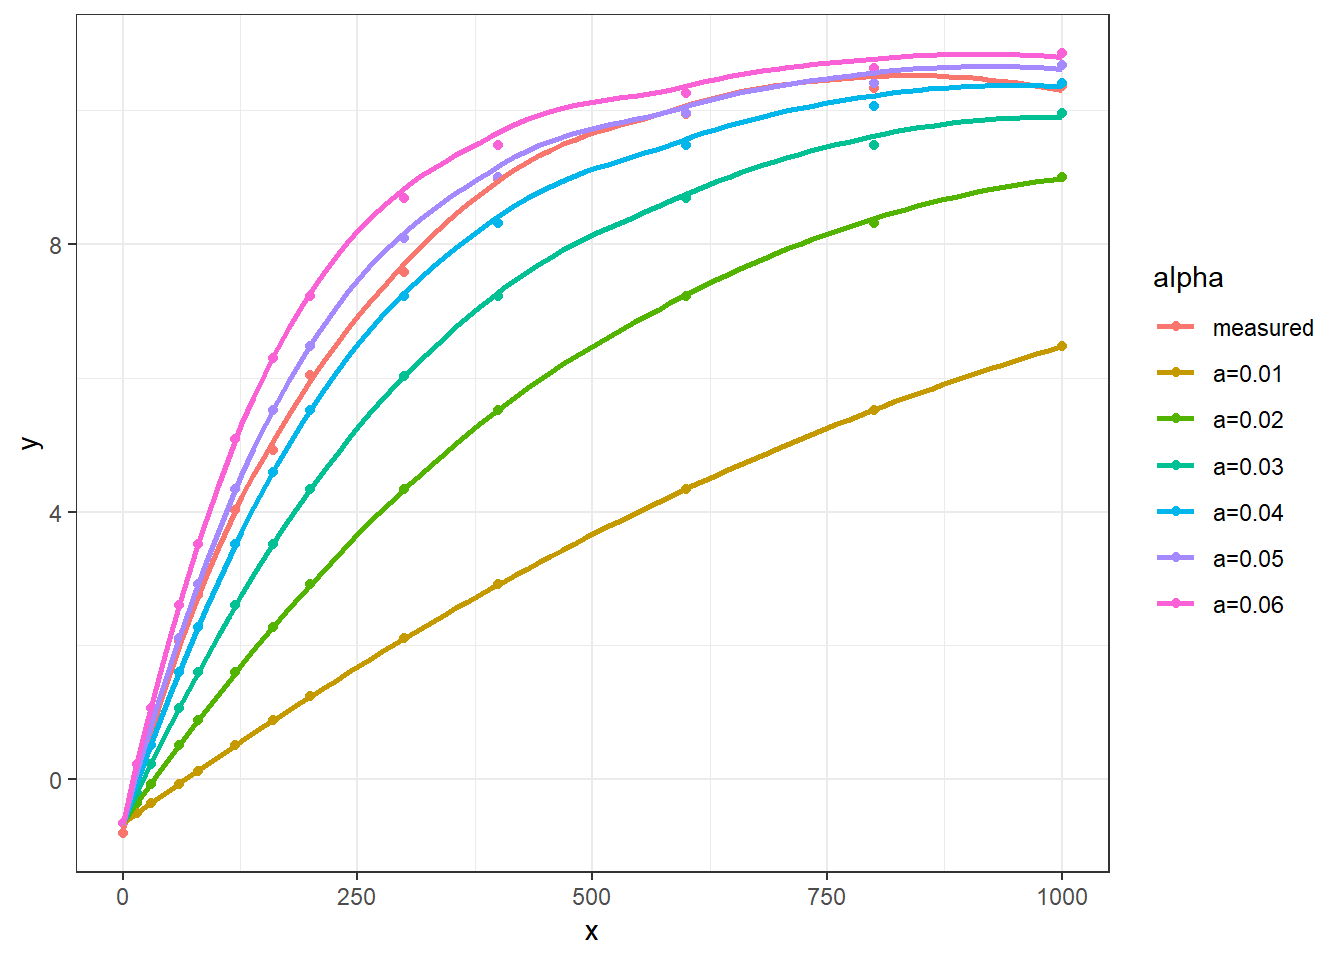
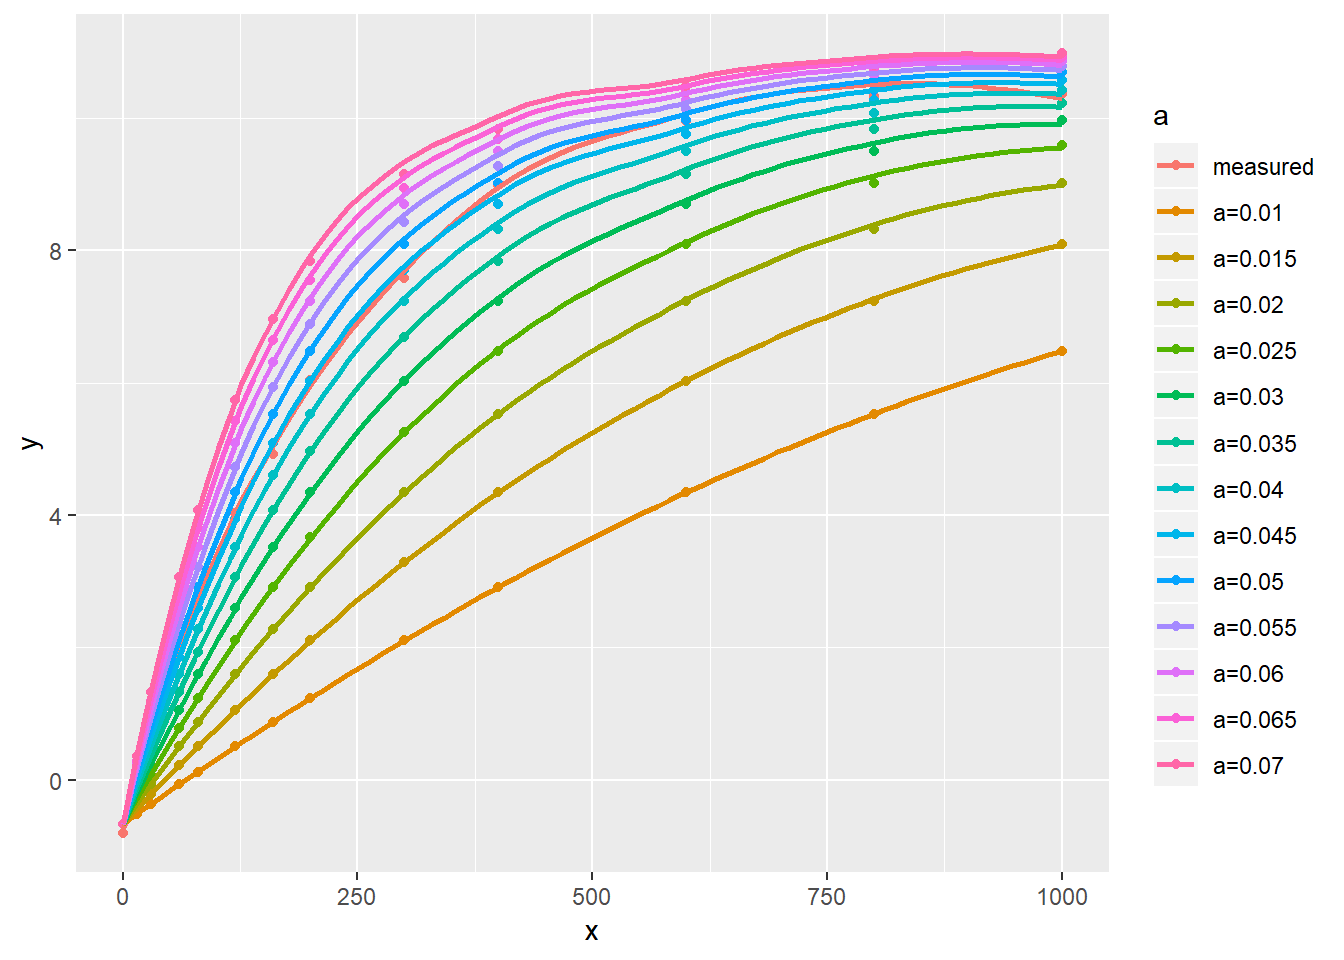
revisenls

diff --git a/_book/section-8.html b/_book/section-8.html
@@ -25,7 +25,7 @@
 <meta name="author" content="祝介东">
 
 
-<meta name="date" content="2018-09-16">
+<meta name="date" content="2018-09-18">
 
   <meta name="viewport" content="width=device-width, initial-scale=1">
   <meta name="apple-mobile-web-app-capable" content="yes">
@@ -338,15 +338,45 @@ test &lt;-<span class="st"> </span><span class="kw">data.frame</span>(<span clas
 </div>
 <div id="section-8.2.2" class="section level3">
 <h3><span class="header-section-number">8.2.2</span> 直观展示</h3>
-<p>上面的表述太啰嗦，直接用下面的图形说明一下，其中 alhpa 的取值在此处选择从 0.01 到 0.06，每次增加 0.01，其他值分别为 Am = 12, Rd= 0.7, theta=0.8 （此处为展示效果和方便，将这些值直接按照拟合结果设定了，实际差别不大）</p>
-<pre><code>## `geom_smooth()` using method = &#39;loess&#39; and formula &#39;y ~ x&#39;</code></pre>
+<p>上面的表述太啰嗦，直接用下面的图形说明一下，其中 alhpa 的取值在此处选择从 0.01 到 0.07，每次增加 0.05，其他值分别为 Am = 12.31, Rd= 0.66, theta=0.71 （此处为展示效果和方便，将这些值直接按照拟合结果设定了，实际差别不大）</p>
+<div class="sourceCode"><pre class="sourceCode r"><code class="sourceCode r"><span class="kw">library</span>(ggplot2)
+<span class="kw">library</span>(purrr)
+
+lrc &lt;-<span class="st"> </span><span class="kw">read.csv</span>(<span class="st">&quot;data/nlstest.csv&quot;</span>)
+
+<span class="co"># 光响应曲线比较简单，我们将需要的数据直接提取，方便后面操作</span>
+lrc_Q &lt;-<span class="st"> </span>lrc<span class="op">$</span>Qin
+lrc_A &lt;-<span class="st"> </span>lrc<span class="op">$</span>A
+n &lt;-<span class="st"> </span><span class="kw">length</span>(lrc_A)
+
+
+alp &lt;-<span class="st"> </span><span class="kw">paste0</span>(<span class="st">&quot;a=&quot;</span>, <span class="kw">seq</span>(<span class="fl">0.01</span>, <span class="fl">0.07</span>, <span class="dt">by =</span> <span class="fl">0.005</span>))
+alpn &lt;-<span class="st"> </span><span class="kw">rep</span>(alp, <span class="dt">each =</span> n)
+
+expfct &lt;-<span class="st"> </span><span class="cf">function</span>(x, Am, alpha, Rd, theta) {(<span class="dv">1</span><span class="op">/</span>(<span class="dv">2</span> <span class="op">*</span><span class="st"> </span>theta)) <span class="op">*</span><span class="st"> </span>(alpha <span class="op">*</span><span class="st"> </span>x <span class="op">+</span><span class="st"> </span>Am <span class="op">-</span><span class="st"> </span><span class="kw">sqrt</span>((alpha <span class="op">*</span><span class="st"> </span>x <span class="op">+</span><span class="st"> </span>Am)<span class="op">^</span><span class="dv">2</span> <span class="op">-</span><span class="st"> </span><span class="dv">4</span> <span class="op">*</span><span class="st"> </span>alpha <span class="op">*</span><span class="st"> </span>theta <span class="op">*</span><span class="st"> </span>Am <span class="op">*</span><span class="st"> </span>x)) <span class="op">-</span><span class="st"> </span>Rd
+}
+
+paras &lt;-<span class="st"> </span><span class="kw">data.frame</span>(<span class="dt">alpha =</span> <span class="kw">rep</span>(<span class="kw">seq</span>(<span class="fl">0.01</span>, <span class="fl">0.07</span>, <span class="dt">by =</span> <span class="fl">0.005</span>), <span class="dt">each =</span> n), 
+           <span class="dt">x =</span> <span class="kw">rep</span>(lrc_Q, n), <span class="dt">Am =</span> <span class="kw">rep</span>(<span class="fl">12.31</span>, n), <span class="dt">Rd =</span> <span class="kw">rep</span>(<span class="fl">0.66</span>, n), 
+           <span class="dt">theta =</span> <span class="kw">rep</span>(<span class="fl">0.71</span>, n))
+y =<span class="st"> </span><span class="kw">unlist</span>(<span class="kw">pmap</span>(paras, expfct))
+
+show &lt;-<span class="st"> </span><span class="kw">data.frame</span>(<span class="dt">x =</span> <span class="kw">rep</span>(lrc_Q, <span class="dv">14</span>),
+           <span class="dt">y =</span> <span class="kw">c</span>(lrc_A, y), 
+           <span class="dt">a =</span> <span class="kw">factor</span>(<span class="kw">c</span>(<span class="kw">rep</span>(<span class="st">&quot;measured&quot;</span>, n), alpn),
+           <span class="dt">level =</span> <span class="kw">c</span>(<span class="st">&quot;measured&quot;</span>, alp)
+             ))
+
+<span class="kw">ggplot</span>(<span class="dt">data =</span> show, <span class="kw">aes</span>(x, y, <span class="dt">group =</span> a, <span class="dt">color=</span>a)) <span class="op">+</span><span class="st"> </span>
+<span class="st">  </span><span class="kw">geom_point</span>() <span class="op">+</span><span class="st"> </span>
+<span class="st">  </span><span class="kw">geom_smooth</span>(<span class="dt">se =</span> <span class="ot">FALSE</span>) </code></pre></div>
 <div class="figure"><span id="fig:malp"></span>
 <img src="bookdown_files/figure-html/malp-1.png" alt="多个 alpha 取值的差异" width="672" />
 <p class="caption">
 图 8.4: 多个 alpha 取值的差异
 </p>
 </div>
-<p>从上图 <a href="section-8.html#fig:malp">8.4</a> 我们我们可以看到，实测值在 alpha =0.04 和 alpha = 0.05 两条曲线之间，也就是我们把初始值设为 0.04 或者 0.05 都比较合适。</p>
+<p>从上图 <a href="section-8.html#fig:malp">8.4</a> 我们我们可以看到，实测值在 alpha =0.04 和 alpha = 0.05 两条曲线之间，在 0.045 时最接近测量点，也就是我们把初始值设为 0.04 和 0.05 之间最接近，本例中可认为是0.045，实际这三个值均可。</p>
 </div>
 </div>
 <div id="section-8.3" class="section level2">

diff --git a/_book/e5898de8a880.html b/_book/e5898de8a880.html
@@ -25,7 +25,7 @@
 <meta name="author" content="祝介东">
 
 
-<meta name="date" content="2018-09-16">
+<meta name="date" content="2018-09-18">
 
   <meta name="viewport" content="width=device-width, initial-scale=1">
   <meta name="apple-mobile-web-app-capable" content="yes">
@@ -208,7 +208,7 @@ code > span.in { color: #60a0b0; font-weight: bold; font-style: italic; } /* Inf
 <div id="header">
 <h1 class="title">R 语言分析 LI-6400 和 LI-6800 光合仪的数据</h1>
 <h4 class="author"><em>祝介东</em></h4>
-<h4 class="date"><em>2018-09-16</em></h4>
+<h4 class="date"><em>2018-09-18</em></h4>
 </div>
 <div id="e5898de8a880" class="section level1 unnumbered">
 <h1>前言</h1>

diff --git a/_book/e585b3e4ba8ee4bd9ce88085.html b/_book/e585b3e4ba8ee4bd9ce88085.html
@@ -25,7 +25,7 @@
 <meta name="author" content="祝介东">
 
 
-<meta name="date" content="2018-09-16">
+<meta name="date" content="2018-09-18">
 
   <meta name="viewport" content="width=device-width, initial-scale=1">
   <meta name="apple-mobile-web-app-capable" content="yes">

diff --git a/_book/e78988e69d83e5a3b0e6988e.html b/_book/e78988e69d83e5a3b0e6988e.html
@@ -25,7 +25,7 @@
 <meta name="author" content="祝介东">
 
 
-<meta name="date" content="2018-09-16">
+<meta name="date" content="2018-09-18">
 
   <meta name="viewport" content="width=device-width, initial-scale=1">
   <meta name="apple-mobile-web-app-capable" content="yes">

diff --git a/_book/intro.html b/_book/intro.html
@@ -25,7 +25,7 @@
 <meta name="author" content="祝介东">
 
 
-<meta name="date" content="2018-09-16">
+<meta name="date" content="2018-09-18">
 
   <meta name="viewport" content="width=device-width, initial-scale=1">
   <meta name="apple-mobile-web-app-capable" content="yes">

diff --git a/_book/li-6800-.html b/_book/li-6800-.html
@@ -25,7 +25,7 @@
 <meta name="author" content="祝介东">
 
 
-<meta name="date" content="2018-09-16">
+<meta name="date" content="2018-09-18">
 
   <meta name="viewport" content="width=device-width, initial-scale=1">
   <meta name="apple-mobile-web-app-capable" content="yes">

diff --git a/_book/references.html b/_book/references.html
@@ -25,7 +25,7 @@
 <meta name="author" content="祝介东">
 
 
-<meta name="date" content="2018-09-16">
+<meta name="date" content="2018-09-18">
 
   <meta name="viewport" content="width=device-width, initial-scale=1">
   <meta name="apple-mobile-web-app-capable" content="yes">

diff --git a/_book/rhtovpd-.html b/_book/rhtovpd-.html
@@ -25,7 +25,7 @@
 <meta name="author" content="祝介东">
 
 
-<meta name="date" content="2018-09-16">
+<meta name="date" content="2018-09-18">
 
   <meta name="viewport" content="width=device-width, initial-scale=1">
   <meta name="apple-mobile-web-app-capable" content="yes">

diff --git a/_book/section-3.html b/_book/section-3.html
@@ -25,7 +25,7 @@
 <meta name="author" content="祝介东">
 
 
-<meta name="date" content="2018-09-16">
+<meta name="date" content="2018-09-18">
 
   <meta name="viewport" content="width=device-width, initial-scale=1">
   <meta name="apple-mobile-web-app-capable" content="yes">

diff --git a/_book/section-4.html b/_book/section-4.html
@@ -25,7 +25,7 @@
 <meta name="author" content="祝介东">
 
 
-<meta name="date" content="2018-09-16">
+<meta name="date" content="2018-09-18">
 
   <meta name="viewport" content="width=device-width, initial-scale=1">
   <meta name="apple-mobile-web-app-capable" content="yes">

diff --git a/_book/section-5.html b/_book/section-5.html
@@ -25,7 +25,7 @@
 <meta name="author" content="祝介东">
 
 
-<meta name="date" content="2018-09-16">
+<meta name="date" content="2018-09-18">
 
   <meta name="viewport" content="width=device-width, initial-scale=1">
   <meta name="apple-mobile-web-app-capable" content="yes">

diff --git a/_book/section-7.html b/_book/section-7.html
@@ -25,7 +25,7 @@
 <meta name="author" content="祝介东">
 
 
-<meta name="date" content="2018-09-16">
+<meta name="date" content="2018-09-18">
 
   <meta name="viewport" content="width=device-width, initial-scale=1">
   <meta name="apple-mobile-web-app-capable" content="yes">
